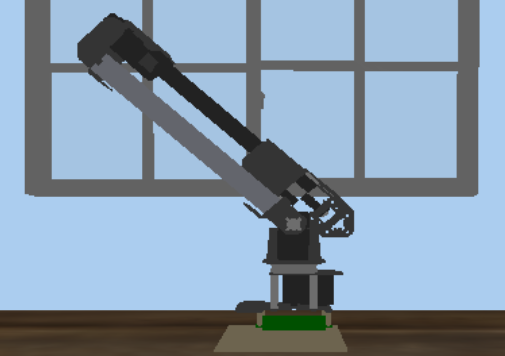
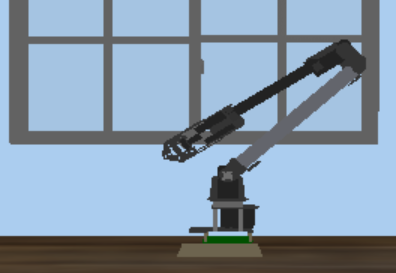
Se agregaron las imagenes de movimientos definitivas

Changed region(s): [[0.0, 0.0, 1.0, 0.9963]]

diff --git a/ejemplo8/resources/js/Pages/Dashboard.vue b/ejemplo8/resources/js/Pages/Dashboard.vue
@@ -255,9 +255,9 @@ const sendCommand =  (event) => {
 
 // Función para mover el robot a la posición del Punto C
 const goToPositionC = () => {
-    q1Angle.value = 0;
+    q1Angle.value = 180;
     q2Angle.value = 45;
-    q3Angle.value = -90;
+    q3Angle.value = -80;
     
     updateCommand(); 
     
